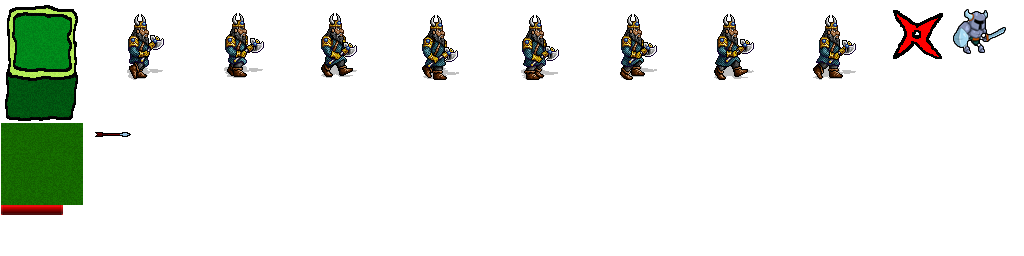
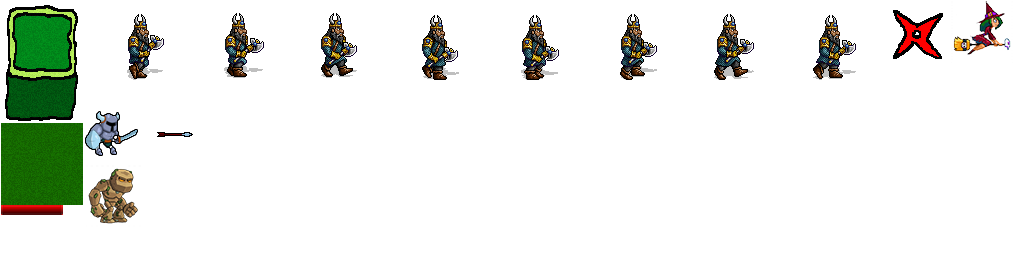
Добавил новых персонажей

Changed region(s): [[0.0625, 0.6562, 0.1562, 0.875], [0.9062, 0.0312, 1.0, 0.2188], [0.0625, 0.4375, 0.1875, 0.625]]

diff --git a/core/src/com/geekbrains/rpg/game/logic/GameController.java b/core/src/com/geekbrains/rpg/game/logic/GameController.java
@@ -7,15 +7,25 @@ public class GameController {
     private ProjectilesController projectilesController;
     private Map map;
     private Hero hero;
-    private Monster monster;
+    private DarkKnight darkKnight;
+    private Witch witch;
+    private Golem golem;
     private Vector2 tmp, tmp2;
 
     public Hero getHero() {
         return hero;
     }
 
-    public Monster getMonster() {
-        return monster;
+    public DarkKnight getDarkKnight() {
+        return darkKnight;
+    }
+
+    public Witch getWitch() {
+        return witch;
+    }
+
+    public Golem getGolem() {
+        return golem;
     }
 
     public Map getMap() {
@@ -29,7 +39,9 @@ public class GameController {
     public GameController() {
         this.projectilesController = new ProjectilesController();
         this.hero = new Hero(this);
-        this.monster = new Monster(this);
+        this.darkKnight = new DarkKnight(this);
+        this.witch = new Witch(this);
+        this.golem = new Golem(this);
         this.map = new Map();
         this.tmp = new Vector2(0, 0);
         this.tmp2 = new Vector2(0, 0);
@@ -37,15 +49,19 @@ public class GameController {
 
     public void update(float dt) {
         hero.update(dt);
-        monster.update(dt);
+        darkKnight.update(dt);
+        witch.update(dt);
+        golem.update(dt);
 
         checkCollisions();
-        collideUnits(hero, monster);
+        collideUnits(hero, darkKnight, darkKnight.isActive());
+        collideUnits(hero, witch, witch.isActive());
+        collideUnits(hero, golem, golem.isActive());
         projectilesController.update(dt);
     }
 
-    public void collideUnits(GameCharacter u1, GameCharacter u2) {
-        if (u1.getArea().overlaps(u2.getArea())) {
+    public void collideUnits(GameCharacter u1, GameCharacter u2, boolean isActive) {
+        if (u1.getArea().overlaps(u2.getArea()) && !isActive) {
             tmp.set(u1.getArea().x, u1.getArea().y);
             tmp.sub(u2.getArea().x, u2.getArea().y);
             float halfInterLen = ((u1.getArea().radius + u2.getArea().radius) - tmp.len()) / 2.0f;
@@ -70,9 +86,23 @@ public class GameController {
                 p.deactivate();
                 continue;
             }
-            if (p.getPosition().dst(monster.getPosition()) < 24) {
+            if (p.getPosition().dst(darkKnight.getPosition()) < 24) {
                 p.deactivate();
-                if (monster.takeDamage(1)) {
+                if (darkKnight.takeDamage(1)) {
+                    hero.addCoins(MathUtils.random(1, 10));
+                }
+            }
+
+            if (p.getPosition().dst(witch.getPosition()) < 24) {
+                p.deactivate();
+                if (witch.takeDamage(1)) {
+                    hero.addCoins(MathUtils.random(1, 10));
+                }
+            }
+
+            if (p.getPosition().dst(golem.getPosition()) < 24) {
+                p.deactivate();
+                if (golem.takeDamage(1)) {
                     hero.addCoins(MathUtils.random(1, 10));
                 }
             }

diff --git a/core/src/com/geekbrains/rpg/game/logic/DarkKnight.java b/core/src/com/geekbrains/rpg/game/logic/DarkKnight.java
@@ -1,0 +1,52 @@
+package com.geekbrains.rpg.game.logic;
+
+import com.badlogic.gdx.graphics.g2d.BitmapFont;
+import com.badlogic.gdx.graphics.g2d.SpriteBatch;
+import com.geekbrains.rpg.game.screens.utils.Assets;
+
+public class DarkKnight extends GameCharacter {
+    private float attackTime;
+    private boolean isActive;
+
+    public DarkKnight(GameController gc) {
+        super(gc, 20, 100.0f);
+        this.texture = Assets.getInstance().getAtlas().findRegion("knight");
+        this.changePosition(800.0f, 300.0f);
+        this.isActive = false;
+    }
+
+    @Override
+    public void onDeath() {
+        this.hp = this.hpMax;
+        this.isActive = true;
+    }
+
+    public boolean isActive() {
+        return isActive;
+    }
+
+    @Override
+    public void render(SpriteBatch batch, BitmapFont font) {
+        //понимаю что не очень хороший подход, но не понял как сделать через контроллер, надеюсь обьясните на лекции
+        if (!isActive) {
+            batch.setColor(0.5f, 0.5f, 0.5f, 0.7f);
+            batch.draw(texture, position.x - 30, position.y - 30, 30, 30, 60, 60, 1, 1, 0);
+            batch.setColor(1, 1, 1, 1);
+            batch.draw(textureHp, position.x - 30, position.y + 30, 60 * ((float) hp / hpMax), 12);
+        }
+    }
+
+    public void update(float dt) {
+        if (position.dst(gc.getHero().getPosition()) < 300 && !isActive) {
+            super.update(dt);
+            dst.set(gc.getHero().getPosition());
+            if (this.position.dst(gc.getHero().getPosition()) < 40) {
+                attackTime += dt;
+                if (attackTime > 0.3f) {
+                    attackTime = 0.0f;
+                    gc.getHero().takeDamage(1);
+                }
+            }
+        }
+    }
+}

diff --git a/core/src/com/geekbrains/rpg/game/logic/Witch.java b/core/src/com/geekbrains/rpg/game/logic/Witch.java
@@ -1,0 +1,50 @@
+package com.geekbrains.rpg.game.logic;
+
+import com.badlogic.gdx.graphics.g2d.BitmapFont;
+import com.badlogic.gdx.graphics.g2d.SpriteBatch;
+import com.geekbrains.rpg.game.screens.utils.Assets;
+
+public class Witch extends GameCharacter {
+    private float attackTime;
+    private boolean isActive;
+
+    public Witch(GameController gc) {
+        super(gc, 20, 100.0f);
+        this.texture = Assets.getInstance().getAtlas().findRegion("witch");
+        this.changePosition(500.0f, 400.0f);
+        this.isActive = false;
+    }
+
+    @Override
+    public void onDeath() {
+        this.hp = this.hpMax;
+        this.isActive = true;
+    }
+
+    public boolean isActive() {
+        return isActive;
+    }
+
+    @Override
+    public void render(SpriteBatch batch, BitmapFont font) {
+        //понимаю что не очень хороший подход, но не понял как сделать через контроллер, надеюсь обьясните на лекции
+        if (!isActive) {
+            batch.draw(texture, position.x - 30, position.y - 30, 30, 30, 60, 60, 1, 1, 0);
+            batch.draw(textureHp, position.x - 30, position.y + 30, 60 * ((float) hp / hpMax), 12);
+        }
+    }
+
+    public void update(float dt) {
+        if (position.dst(gc.getHero().getPosition()) < 300 && !isActive) {
+            super.update(dt);
+            dst.set(gc.getHero().getPosition());
+            if (this.position.dst(gc.getHero().getPosition()) < 40) {
+                attackTime += dt;
+                if (attackTime > 0.3f) {
+                    attackTime = 0.0f;
+                    gc.getHero().takeDamage(1);
+                }
+            }
+        }
+    }
+}

diff --git a/core/src/com/geekbrains/rpg/game/logic/Golem.java b/core/src/com/geekbrains/rpg/game/logic/Golem.java
@@ -4,14 +4,14 @@ import com.badlogic.gdx.graphics.g2d.BitmapFont;
 import com.badlogic.gdx.graphics.g2d.SpriteBatch;
 import com.geekbrains.rpg.game.screens.utils.Assets;
 
-public class Monster extends GameCharacter {
+public class Golem extends GameCharacter {
     private float attackTime;
     private boolean isActive;
 
-    public Monster(GameController gc) {
+    public Golem(GameController gc) {
         super(gc, 20, 100.0f);
-        this.texture = Assets.getInstance().getAtlas().findRegion("knight");
-        this.changePosition(800.0f, 300.0f);
+        this.texture = Assets.getInstance().getAtlas().findRegion("golem");
+        this.changePosition(200.0f, 150.0f);
         this.isActive = false;
     }
 
@@ -21,13 +21,15 @@ public class Monster extends GameCharacter {
         this.isActive = true;
     }
 
+    public boolean isActive() {
+        return isActive;
+    }
+
     @Override
     public void render(SpriteBatch batch, BitmapFont font) {
         //понимаю что не очень хороший подход, но не понял как сделать через контроллер, надеюсь обьясните на лекции
         if (!isActive) {
-            batch.setColor(0.5f, 0.5f, 0.5f, 0.7f);
             batch.draw(texture, position.x - 30, position.y - 30, 30, 30, 60, 60, 1, 1, 0);
-            batch.setColor(1, 1, 1, 1);
             batch.draw(textureHp, position.x - 30, position.y + 30, 60 * ((float) hp / hpMax), 12);
         }
     }

diff --git a/core/src/com/geekbrains/rpg/game/logic/WorldRenderer.java b/core/src/com/geekbrains/rpg/game/logic/WorldRenderer.java
@@ -31,7 +31,9 @@ public class WorldRenderer {
             drawables[i].clear();
         }
         drawables[gc.getHero().getCellY()].add(gc.getHero());
-        drawables[gc.getHero().getCellY()].add(gc.getMonster());
+        drawables[gc.getHero().getCellY()].add(gc.getDarkKnight());
+        drawables[gc.getHero().getCellY()].add(gc.getWitch());
+        drawables[gc.getHero().getCellY()].add(gc.getGolem());
         for (int i = 0; i < gc.getProjectilesController().getActiveList().size(); i++) {
             Projectile p = gc.getProjectilesController().getActiveList().get(i);
             drawables[p.getCellY()].add(p);
